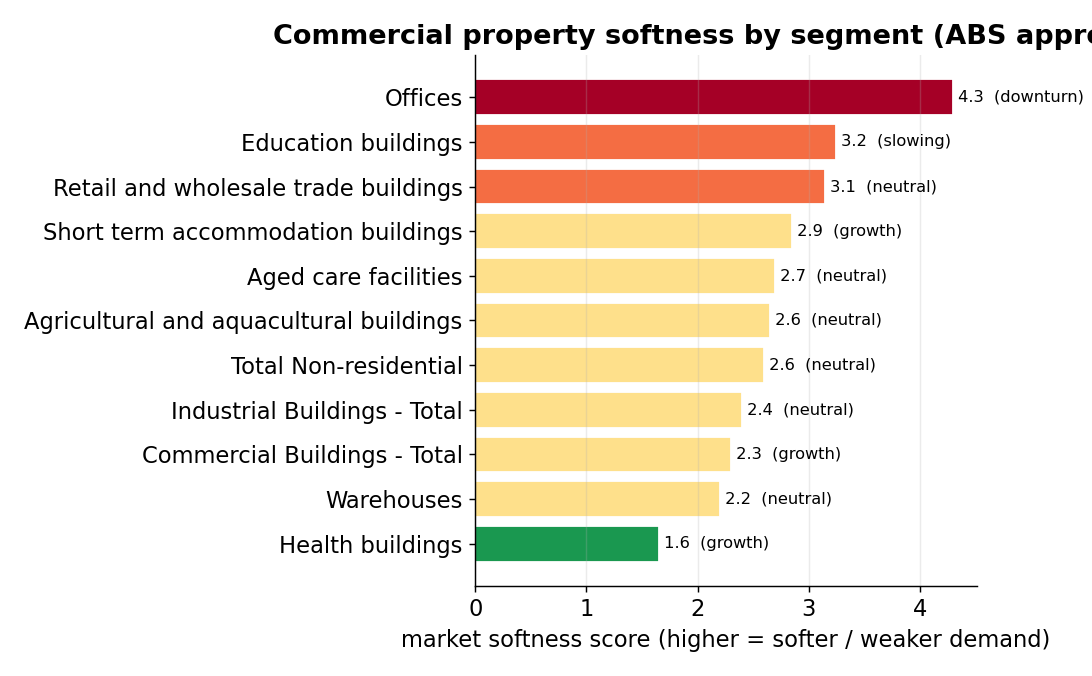
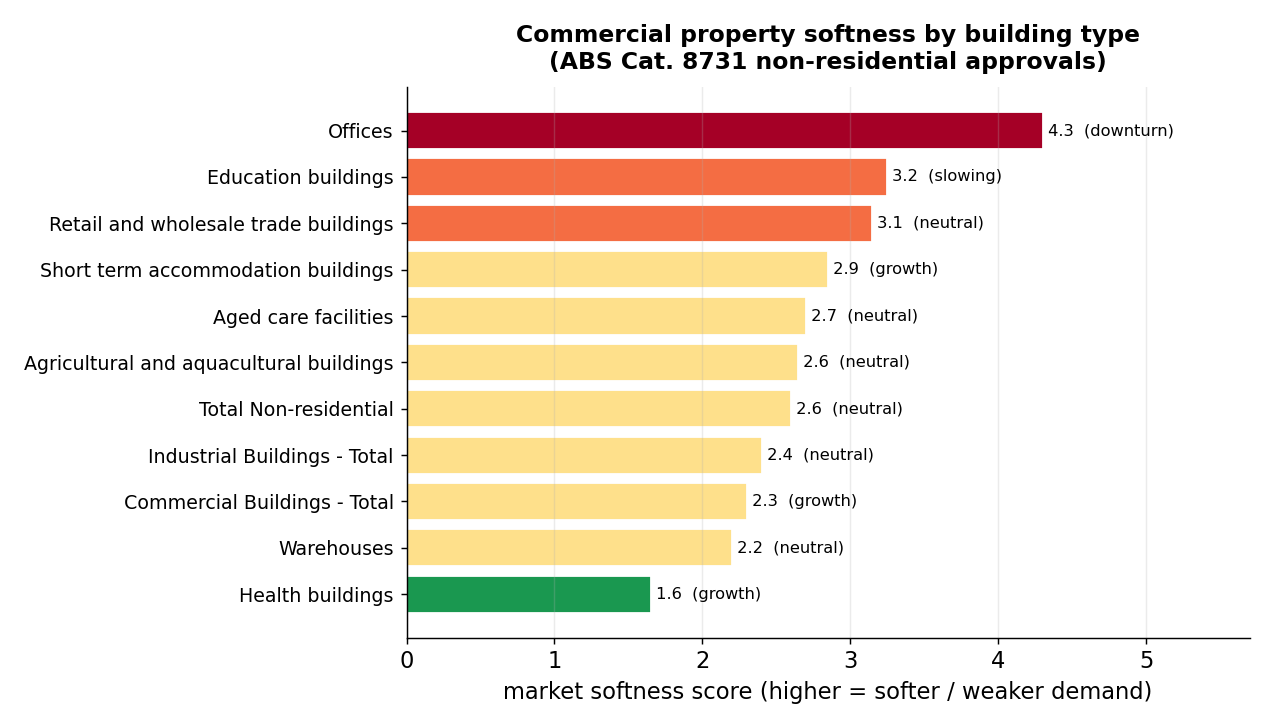
Docs: clarify per-product stress drivers (PD/LGD/EAD + weights/direction); group residential & commercial property in Section 1; re-add CRE building-type comparison + fix clipped chart title

Changed region(s): [[0.0, 0.0311, 1.0, 0.963]]

diff --git a/tools/make_figures.py b/tools/make_figures.py
@@ -72,15 +72,18 @@ ax.set_title("Downturn overlay: stress multipliers by scenario")
 ax.legend(frameon=False, ncol=2, fontsize=10)
 save(fig, "downturn_scenario_multipliers.png")
 
-# 3. Property-market softness by segment -------------------------------------
+# 3. Property-market softness by building type -------------------------------
 prop = pd.read_csv(CON / "property_cycle_panel.csv").sort_values("market_softness_score")
-fig, ax = plt.subplots(figsize=(8.4, 5.2))
+fig, ax = plt.subplots(figsize=(9.8, 5.6))
 colors = [LEVEL_COLOR.get(b, BLUE) for b in prop.market_softness_band]
 bars = ax.barh(prop.property_segment, prop.market_softness_score, color=colors, edgecolor="white")
 for y, (v, st) in enumerate(zip(prop.market_softness_score, prop.cycle_stage)):
     ax.text(v, y, f" {v:.1f}  ({st})", va="center", fontsize=9)
+ax.tick_params(axis="y", labelsize=10.5)
+ax.set_xlim(0, max(prop.market_softness_score) + 1.4)
 ax.set_xlabel("market softness score (higher = softer / weaker demand)")
-ax.set_title("Commercial property softness by segment (ABS approvals)")
+ax.set_title("Commercial property softness by building type\n(ABS Cat. 8731 non-residential approvals)",
+             fontsize=13, pad=10)
 ax.grid(axis="y", alpha=0)
 save(fig, "property_market_softness.png")
 

diff --git a/README.md b/README.md
@@ -30,10 +30,14 @@ The model-ready data sits in eight CSV "contracts" in [`outputs/contracts/`](out
 ## 1. Macro conditions for credit assessment & risk management
 
 A lender's loss rate is driven as much by *the environment it lends into* as by any single
-borrower. Before scoring an industry or a deal, the engine reads where the economy currently
-sits — these are the **economy-wide conditions a credit team assesses against**, each at its
-latest observed level from a named public series. They form the **base** of every stress
-scenario and condition PD and LGD across the whole book.
+borrower. Before scoring an industry or a deal, the engine reads where the economy and the
+property markets currently sit — the conditions a credit team assesses against. Each figure
+below is the latest observed level from a named public series, and together they form the
+**base** of every stress scenario in Section 2.
+
+### 1a. Economy-wide conditions
+
+The broad drivers that condition PD and LGD across the whole book, regardless of product.
 
 | Macro condition | Current level | What it signals for credit risk | Source |
 |---|---|---|---|
@@ -42,21 +46,66 @@ scenario and condition PD and LGD across the whole book.
 | Cash rate | 4.35% (+0.5pp YoY) | Restrictive — debt-servicing pressure on leveraged borrowers | RBA F1 (live) |
 | Inflation (CPI, YoY) | 3.2% | Above target — cost-of-living squeeze on cash flow | ABS 6401 CPI |
 | Wage growth (WPI, YoY) | 3.5% | Roughly matching CPI — thin real-income buffer | ABS 6345 Wage Price Index |
-| House-price growth (YoY) | 4.0% | Positive — supportive residential collateral | ABS 6416 Residential Property Price Index |
 | Exchange rate (TWI, change) | 0.0% | Stable — neutral for FX-exposed corporates | RBA F11 |
 | Industry / sector output (YoY) | 2.0% | Modest — sector-revenue channel for SME / corporate | ABS 8155 + 5676 |
-| Commercial-property prices | 0.0% | *assumption* — flat, anchored to RBA FSR commentary | *assumption* |
-| Office vacancy rate | 12.0% | *assumption* — elevated, office segment under pressure | *assumption* |
-| CRE rents | 0.0% | *assumption* | *assumption* |
-| CRE cap rates | 6.0% | *assumption* | *assumption* |
 
-**Macro regime (latest, as of 2026-06-15):** cash-rate regime **restrictive / rising**,
-arrears **Low / Improving**, overall macro-regime flag **base**
+### 1b. Property conditions
+
+Property-secured lending splits into **residential** and **commercial** — they sit on different
+cycles, so the engine reads them separately.
+
+**Residential property.** The residential signal is **house-price growth: +4.0% YoY** (ABS 6416
+Residential Property Price Index). This is the collateral channel for residential mortgages — when
+it falls, mortgage LGD rises (Section 2b). *This is a **national** figure. State / capital-city
+splits (ABS 6432) are not yet staged, so there is no by-state residential breakdown here; it will
+be added once that source is in place.*
+
+**Commercial property (CRE).** Read two ways:
+
+*(i) Price & yield levels* — labelled **assumptions** (no clean free quarterly public series;
+anchored to RBA FSR commentary). These feed the CRE stress paths in Section 2a:
+
+| CRE condition | Current level | Reading |
+|---|---|---|
+| Commercial-property prices | 0.0% | Flat |
+| Office vacancy rate | 12.0% | Elevated — office segment under pressure |
+| CRE rents | 0.0% | Flat |
+| CRE cap rates | 6.0% | — |
+
+*(ii) Building-type cycle* — **real ABS data** (Cat. 8731 non-residential building approvals).
+This is where CRE risk actually concentrates right now: **offices are in a clear downturn**
+(approvals −36% YoY) while health buildings and warehouses still grow. The softness score runs
+1 (firm) → 5 (soft); "PD if standalone" is the overlay that segment would carry on its own.
+
+![Commercial property softness by building type, from ABS non-residential building approvals — offices softest, health buildings firmest](outputs/charts/property_market_softness.png)
+
+| Building type | Cycle stage | Softness (1 firm → 5 soft) | Approvals YoY | PD if standalone |
+|---|---|--:|--:|--:|
+| Offices | downturn | 4.30 | −35.7% | 1.15× |
+| Education buildings | slowing | 3.25 | −21.4% | 1.15× |
+| Retail & wholesale trade buildings | neutral | 3.15 | +68.5% | 1.10× |
+| Short-term accommodation buildings | growth | 2.85 | +113.7% | 1.10× |
+| Aged care facilities | neutral | 2.70 | +219.9% | 1.00× |
+| Agricultural & aquacultural buildings | neutral | 2.65 | +58.4% | 1.00× |
+| Warehouses | neutral | 2.20 | +69.3% | 1.00× |
+| Health buildings | growth | 1.65 | +355.0% | 0.95× |
+
+The table lists the eight specific building types; the chart additionally shows three "Total …"
+bars, which are aggregate reference lines only. The five-segment rollup these building types feed
+(CRE / Retail / Industrial / Construction / Residential) is in
+[`property_market_overlays.csv`](outputs/contracts/property_market_overlays.csv). Approvals are a
+forward-looking proxy for building activity (commencements/completions are not yet staged), and
+the high positive YoY figures reflect volatile low-base months, so they are read for *direction*,
+not magnitude.
+
+### 1c. Macro regime
+
+**Latest (as of 2026-06-15):** cash-rate regime **restrictive / rising**, arrears
+**Low / Improving**, overall macro-regime flag **base**
 ([`macro_regime_flags.csv`](outputs/contracts/macro_regime_flags.csv)). The cash-rate regime is
-real RBA F1; the arrears level/trend is a labelled qualitative assumption from the RBA FSR.
-
-*A "base" regime means the engine applies no recession overlay at current readings — but it
-pre-computes the stress dials in Section 2 so a downturn can be costed instantly.*
+real RBA F1; the arrears level/trend is a labelled qualitative assumption from the RBA FSR. A
+"base" regime means no recession overlay is applied at current readings — but the engine
+pre-computes the stress dials in Section 2 so a downturn can be costed instantly.
 
 ---
 
@@ -104,26 +153,49 @@ multipliers (and property-value haircut) a model multiplies through —
 
 ### 2b. Which drivers stress which product
 
-Different lending products fail for different reasons, so each portfolio is stressed against the
-drivers that matter to it (illustrative weights, not estimated betas — the weights inside each
-PD / LGD / EAD parameter sum to 1.0). Source:
+Different lending products fail for different reasons, so each is stressed against its own short
+list of drivers. For every product the engine splits credit risk into the three quantities a loss
+model needs, and tells you which macro drivers move each one:
+
+- **PD** — *probability of default*: how likely the borrower is to stop paying.
+- **LGD** — *loss given default*: the share of the balance you lose once they default (mostly a
+  collateral story).
+- **EAD** — *exposure at default*: how much is drawn/owing when default hits.
+
+Each driver carries a **weight** showing how much it moves that quantity. **Weights are
+illustrative (not estimated betas) and sum to 1.0 within each of PD / LGD / EAD** — so a 0.45
+driver moves that quantity about twice as much as a 0.20 driver. The arrow shows the stress
+direction: **↑** = worse when the driver rises, **↓** = worse when it falls. Source:
 [`portfolio_macro_sensitivity.csv`](outputs/contracts/portfolio_macro_sensitivity.csv).
 
-| Product / portfolio | PD driven mainly by | LGD driven mainly by | EAD driven mainly by |
-|---|---|---|---|
-| **Residential mortgages** | unemployment (.45), cash rate (.25), wage growth (.20) | **house prices (.70)**, unemployment (.20) | cash rate (.50), unemployment (.30) |
-| **Credit cards** | unemployment (.50), wage growth (.30), inflation (.20) | unemployment (.50), inflation (.30) | GDP (.40), cash rate (.35) |
-| **SME lending** | GDP (.35), unemployment (.25), cash rate (.20), sector output (.20) | CRE prices (.45), house prices (.35), sector output (.20) | cash rate (.40), GDP (.35), sector output (.25) |
-| **Corporate lending** | GDP (.40), sector output (.30), cash rate (.15), FX (.15) | sector output (.45), CRE prices (.30), FX (.25) | cash rate (.45), GDP (.35), sector output (.20) |
-| **Commercial property (CRE)** | CRE prices (.30), vacancy (.30), rents (.20), cash rate (.20) | CRE prices (.40), cap rates (.35), rents (.25) | cash rate (.50), vacancy (.30) |
-| **Development finance** | CRE prices (.35), GDP (.25), vacancy (.20), cash rate (.20) | CRE prices (.55), cap rates (.25), rents (.20) | cash rate (.45), CRE prices (.30), GDP (.25) |
+**Worked example — residential mortgages.** Read the row as three separate stories:
 
-How to read it: residential mortgage **LGD** is overwhelmingly a **house-price** story (collateral
-channel), while its **PD** is a **labour-market and rate** story (debt-servicing). CRE and
-development finance pivot on **property values, vacancy and cap rates**; SME and corporate pivot
-on **GDP and sector output**. The roll-up is demonstrated on a committed demo book — illustrative
-portfolio EL ≈ **1.9× mild, 3.2× moderate, 5.6× severe** (exposure-weighted, no diversification
-benefit, per APG 113 para 92).
+- **PD** worsens when the **labour market and rates** turn: unemployment ↑ (0.45) does most of
+  the work, then cash rate ↑ (0.25), wage growth ↓ (0.20), inflation ↑ (0.10).
+- **LGD** is almost entirely a **collateral** story: house prices ↓ (0.70) dominate, with
+  unemployment ↑ (0.20) and cash rate ↑ (0.10) secondary.
+- **EAD** grows as stressed borrowers draw down: cash rate ↑ (0.50), unemployment ↑ (0.30),
+  GDP ↓ (0.20).
+
+So in the *severe* scenario a −21% house-price move is what drives mortgage **LGD** up, while the
++4pp jump in unemployment is what drives mortgage **PD** — two different drivers, two different
+quantities. The same split for every product:
+
+| Product / portfolio | PD — main drivers (weight) | LGD — main drivers (weight) | EAD — main drivers (weight) |
+|---|---|---|---|
+| **Residential mortgages** | unemployment ↑ (0.45), cash rate ↑ (0.25), wage growth ↓ (0.20), inflation ↑ (0.10) | house prices ↓ (0.70), unemployment ↑ (0.20), cash rate ↑ (0.10) | cash rate ↑ (0.50), unemployment ↑ (0.30), GDP ↓ (0.20) |
+| **Credit cards** | unemployment ↑ (0.50), wage growth ↓ (0.30), inflation ↑ (0.20) | unemployment ↑ (0.50), inflation ↑ (0.30), wage growth ↓ (0.20) | GDP ↓ (0.40), cash rate ↑ (0.35), unemployment ↑ (0.25) |
+| **SME lending** | GDP ↓ (0.35), unemployment ↑ (0.25), cash rate ↑ (0.20), sector output ↓ (0.20) | CRE prices ↓ (0.45), house prices ↓ (0.35), sector output ↓ (0.20) | cash rate ↑ (0.40), GDP ↓ (0.35), sector output ↓ (0.25) |
+| **Corporate lending** | GDP ↓ (0.40), sector output ↓ (0.30), cash rate ↑ (0.15), FX ↓ (0.15) | sector output ↓ (0.45), CRE prices ↓ (0.30), FX ↓ (0.25) | cash rate ↑ (0.45), GDP ↓ (0.35), sector output ↓ (0.20) |
+| **Commercial property (CRE)** | CRE prices ↓ (0.30), vacancy ↑ (0.30), rents ↓ (0.20), cash rate ↑ (0.20) | CRE prices ↓ (0.40), cap rates ↑ (0.35), rents ↓ (0.25) | cash rate ↑ (0.50), vacancy ↑ (0.30), CRE prices ↓ (0.20) |
+| **Development finance** | CRE prices ↓ (0.35), GDP ↓ (0.25), vacancy ↑ (0.20), cash rate ↑ (0.20) | CRE prices ↓ (0.55), cap rates ↑ (0.25), rents ↓ (0.20) | cash rate ↑ (0.45), CRE prices ↓ (0.30), GDP ↓ (0.25) |
+
+The pattern: **household products** (mortgages, cards) pivot on the **labour market**;
+**business products** (SME, corporate) pivot on **GDP and sector output**; **property products**
+(CRE, development finance) pivot on **property values, vacancy and cap rates**. Applying these
+weights to the Section 2a shock paths on a committed demo book gives an illustrative portfolio
+expected loss of ≈ **1.9× mild, 3.2× moderate, 5.6× severe** (exposure-weighted, no
+diversification benefit, per APG 113 para 92).
 
 ### 2c. Which drivers stress which industry
 